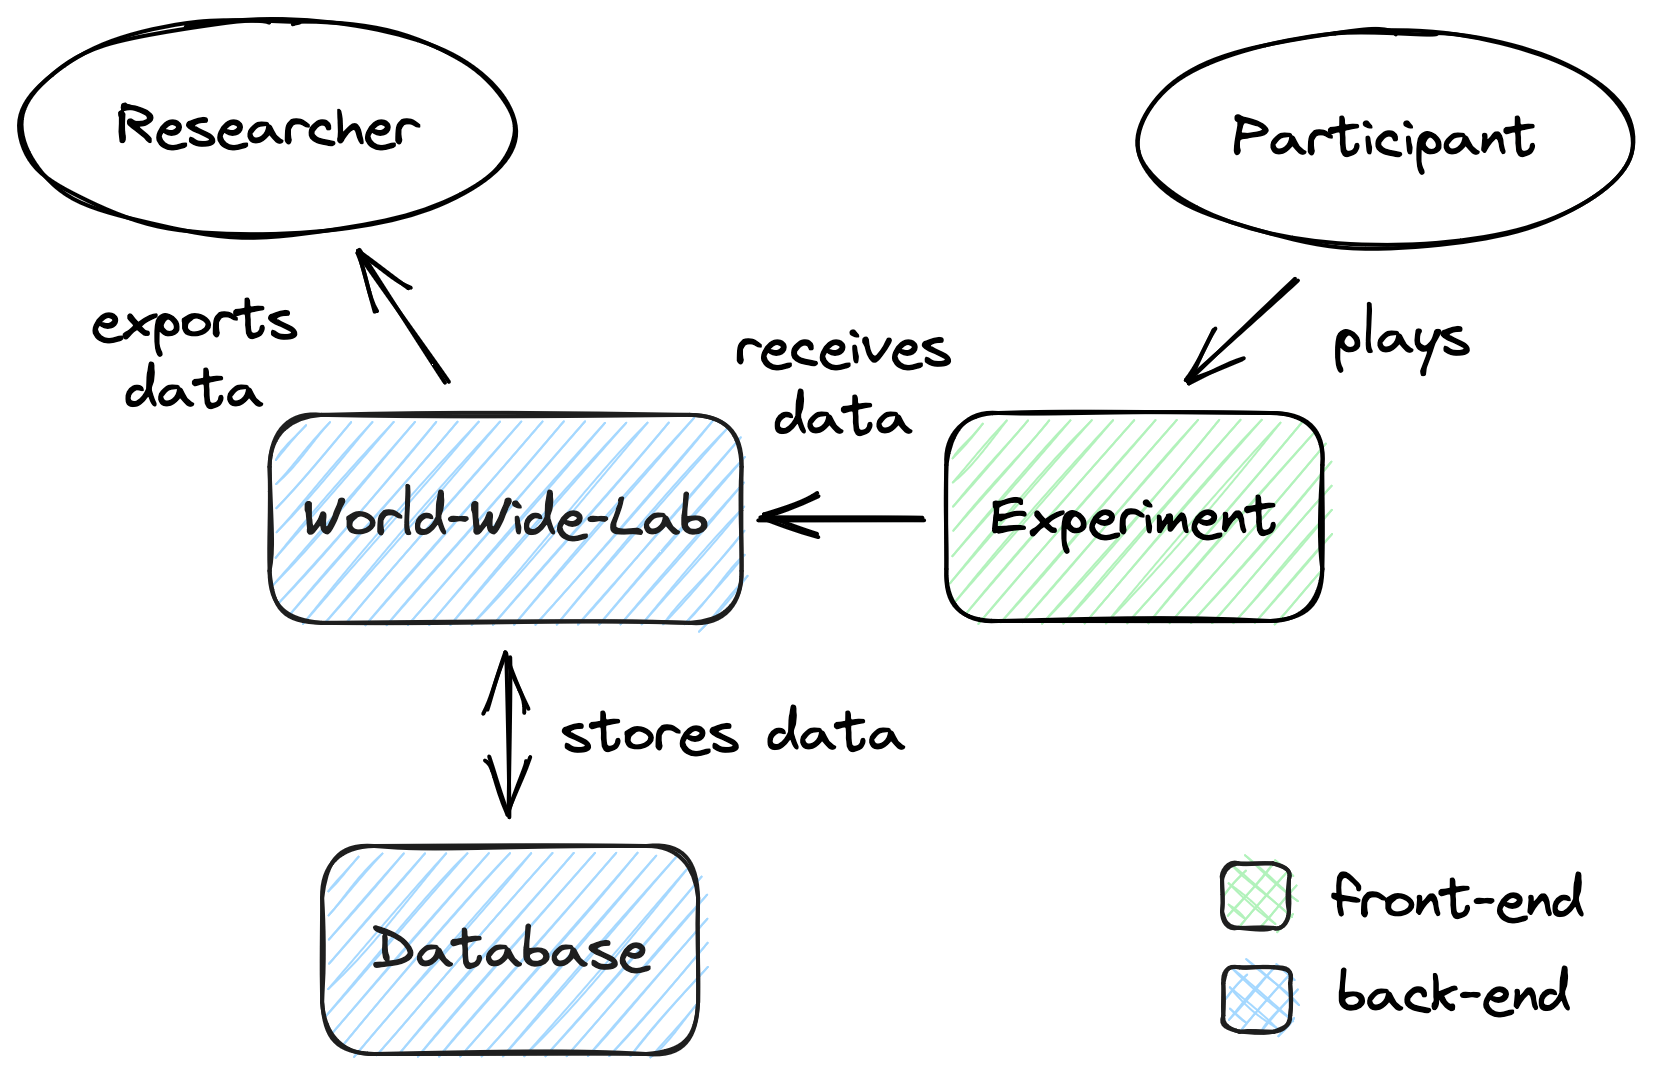
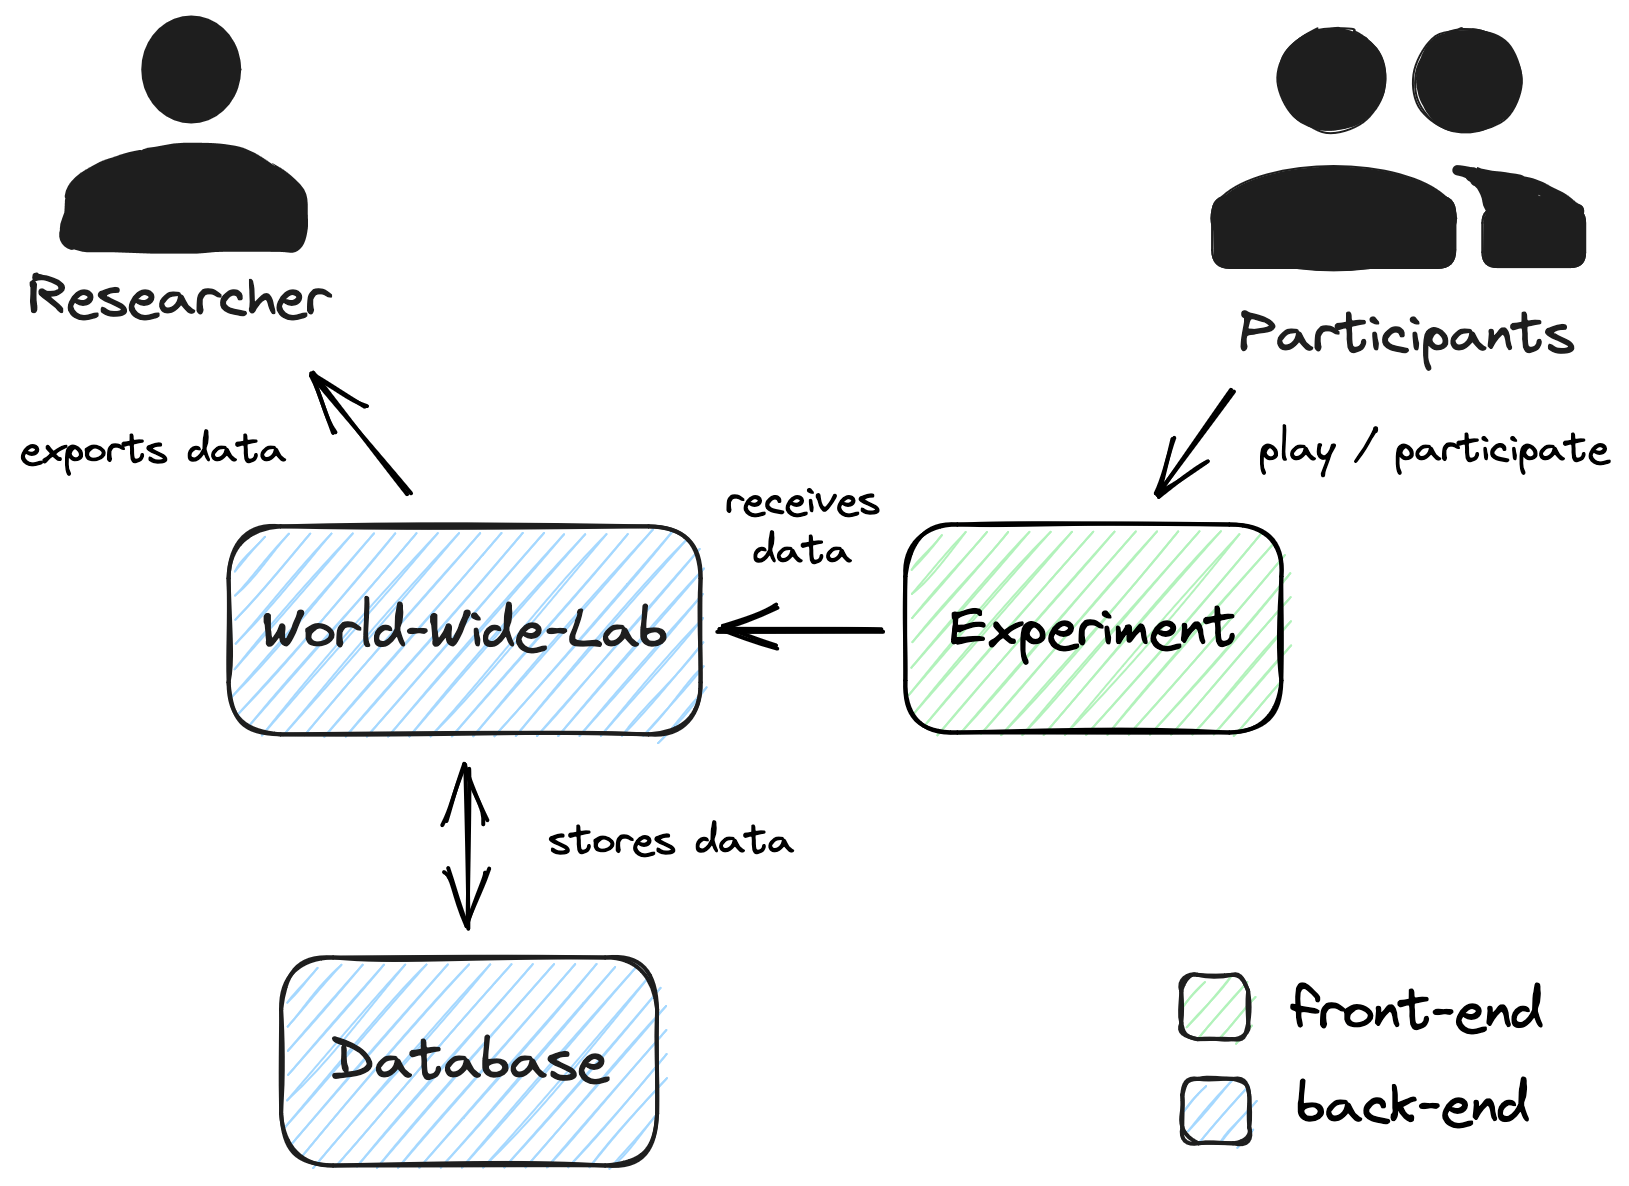
Minor additional edits to docs

diff --git a/docs/.vitepress/config.ts b/docs/.vitepress/config.ts
@@ -23,7 +23,7 @@ export default defineConfig({
         items: [
           { text: 'What is World-Wide-Lab?', link: '/guides/what-is-world-wide-lab' },
           { text: 'Getting Started', link: '/guides/getting-started' },
-          { text: 'Downloading Data', link: '/guides/downloading-data' },
+          { text: 'Downloading Data', link: '/guides/download-data' },
         ]
       },
       {

diff --git a/docs/index.md b/docs/index.md
@@ -12,7 +12,7 @@ hero:
   actions:
     - theme: brand
       text: Get Started
-      link: /markdown-examples
+      link: /guides/getting-started
     - theme: alt
       text: Download the App
       link: https://github.com/world-wide-lab/world-wide-lab/releases/latest
@@ -38,3 +38,75 @@ features:
     details: Easily collect data from jsPsych experiments using the jsPsychWorldWideLab-Plugin.
 ---
 
+<script>
+  import AtroposComponent from 'atropos/element';
+  customElements.define('atropos-component', AtroposComponent);
+</script>
+
+<style>
+  .my-atropos {
+    display: block;
+    width: 100%;
+    margin: 3rem auto 0;
+    padding: 3rem;
+    position: relative;
+    overflow: hidden;
+  }
+  .screenshot-container {
+    border-radius: 16px;
+    border: 1px solid lightgrey;
+    overflow: hidden;
+    max-width: 60%;
+    margin: 0 auto;
+  }
+  .screenshot-container img {
+    max-width: 100%;
+  }
+  .floating-logo {
+    position: absolute;
+    bottom: 33%;
+    left: 14%;
+    width: 15%;
+  }
+  .floating-name {
+    position: absolute;
+    bottom: 25%;
+    left: 14%;
+    width: 15%;
+    text-align: center;
+    font-size: 1.7rem;
+    color: #4A5568;
+  }
+
+  .floating-support {
+    position: absolute;
+    bottom: 5%;
+    right: 11%;
+    width: 18%;
+    background-color: white;
+    padding: 1rem;
+    border-radius: 16px;
+    border: 1px solid lightgrey;
+    text-align: center;
+    opacity: 0.8;
+  }
+  .floating-support img {
+    max-width: 85%;
+    margin: 0 auto;
+  }
+</style>
+
+<atropos-component class="my-atropos"
+  active-offset="40"
+  shadow-scale="0"
+>
+  <div class="screenshot-container">
+    <img src="/img/landing-page/dashboard-no-window.png" />
+  </div>
+  <img class="floating-logo" src="/img/favicon.png" data-atropos-offset="5"/>
+  <div class="floating-name" data-atropos-offset="5">World-Wide-Lab</div>
+  <div class="floating-support" data-atropos-offset="7">
+    With integrated support for
+    <img src="/img/landing-page/jspsych-logo.jpg"/>
+  </div>
+</atropos-component>

diff --git a/docs/guides/getting-started.md b/docs/guides/getting-started.md
@@ -2,7 +2,7 @@
 
 ## Desktop Application
 
-The easiest way to get started with World-Wide-Lab is to use the Desktop Application which automatically includes everything you will need to run your own local experiments. The Desktop App is available for Windows, Mac, and Linux and can be downloaded [here ⬇](https://github.com/world-wide-lab/world-wide-lab/releases/latest).
+The easiest way to get started with World-Wide-Lab is to use the Desktop Application which automatically includes everything you will need to run your own local experiments. The Desktop App is available for Windows, Mac, and Linux and can be [⬇ downloaded here](https://github.com/world-wide-lab/world-wide-lab/releases/latest).
 
 ::: tip
 Even if you plan to use the World-Wide-Lab Server, we recommend to try out the Desktop Application first to get to know the platform, before setting up an online server.

diff --git a/docs/guides/what-is-world-wide-lab.md b/docs/guides/what-is-world-wide-lab.md
@@ -2,6 +2,10 @@
 
 World-Wide-Lab is a platform to collect online data at scale, with a special focus on running online citizen science experiments.
 
-![](/img/diagrams/front-vs-back-end.png)
+## The World Wide Lab Data Model
 
-![](/img/diagrams/data-model.png)
+![A diagram showing the data-model, consisting of responses which belong to runs.](/img/diagrams/data-model.png)
+
+## Front-End & Back-End
+
+![](/img/diagrams/front-vs-back-end.png)
